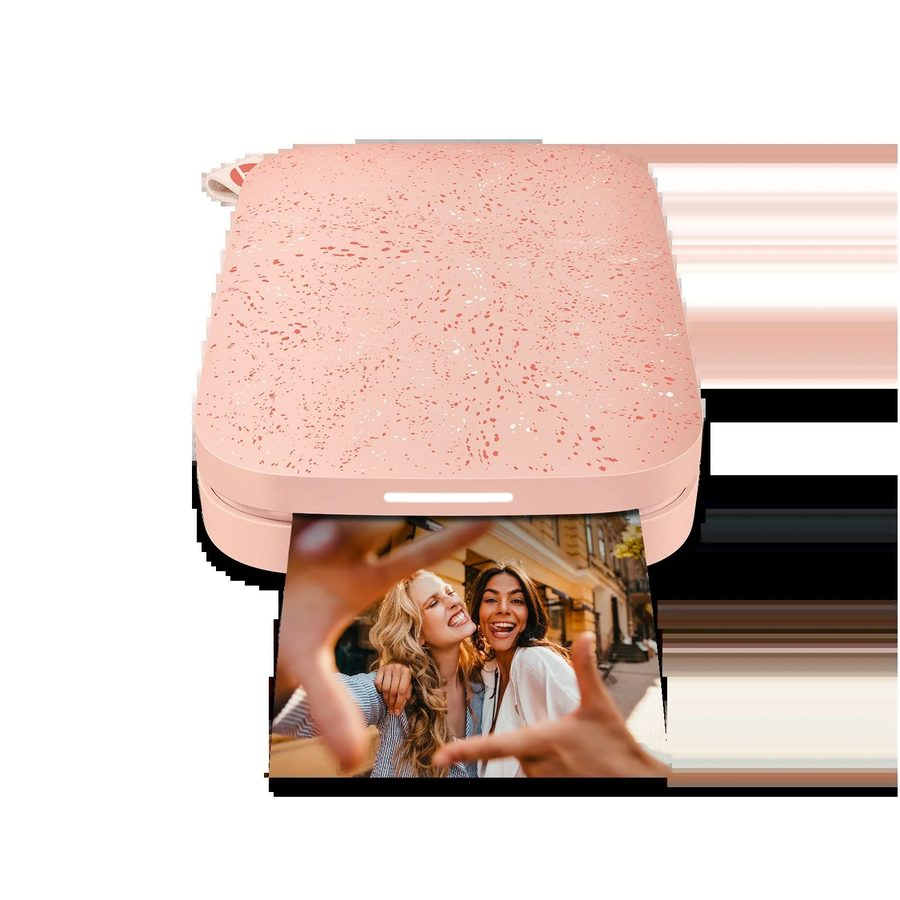
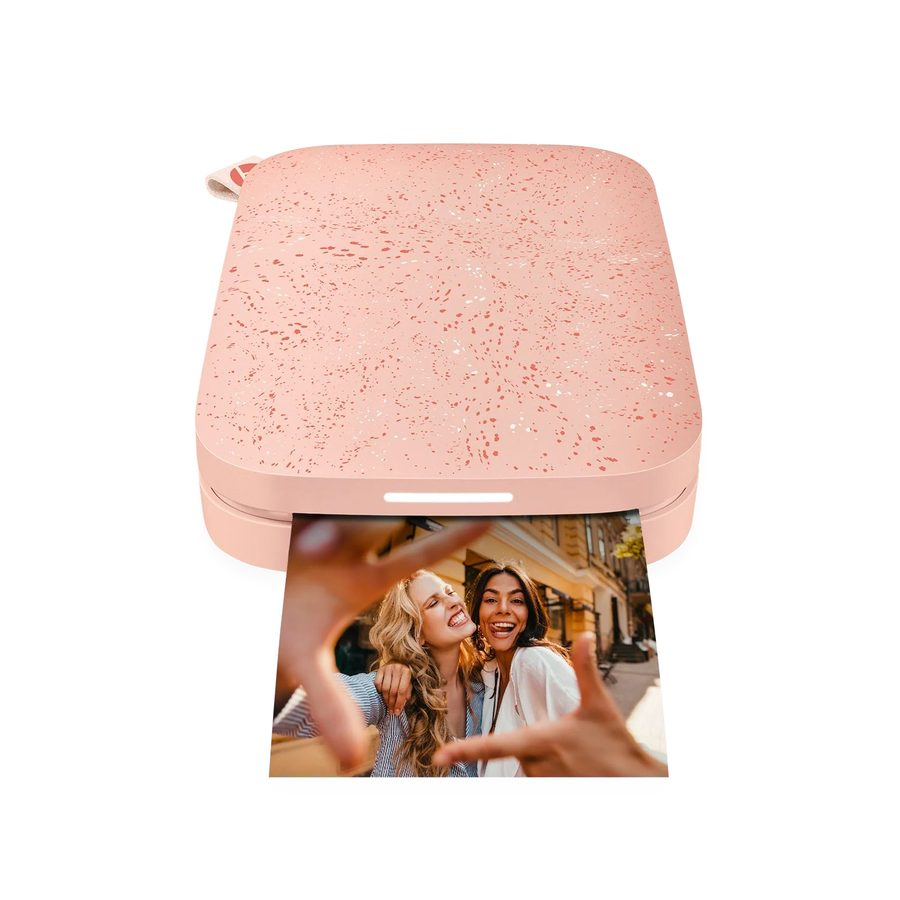
Slide order, prices as written, two photo fixes
- Order now matches the presentation: one-time ideas first (to be ranked
  by hand), then the five that moved out of "Одноразовые", then the
  "Многоразовые" in slide order.
- Prices carry Milana's own notation again through a "priceLabel" field —
  "~€20", "~€20?", "~бесценно". priceMin/priceMax stay numeric so the
  price sort still works. Lego Botanicals (€40) and Butter squishy (€15)
  keep the single figures she gave instead of their slide ranges.
- Gold frame added to the Mateus bowl and the Serax fish set.
- The Creeper and the printer are stored in the PDF with a separate soft
  mask, which pdfimages writes as its own file. Nothing was applying it,
  so the cut-out background came through black. Now composited.
- The Body Shop entry is two products on the slide; both are in the photo.

diff --git a/js/app.js b/js/app.js
@@ -62,6 +62,8 @@ function normalize(raw, index) {
     description: raw.description || "",
     priceMin: Number.isFinite(priceMin) ? priceMin : null,
     priceMax: Number.isFinite(priceMaxRaw) ? priceMaxRaw : null,
+    // Milana's own notation from the slides: "~€20", "€15–50", "~бесценно".
+    priceLabel: typeof raw.priceLabel === "string" ? raw.priceLabel : "",
     currency: raw.currency || "EUR",
     category: raw.category || "",
     link: raw.link || "",
@@ -144,6 +146,7 @@ function makeChip(label) {
 }
 
 function formatPrice(item) {
+  if (item.priceLabel) return item.priceLabel;
   const symbol = item.currency === "EUR" ? "€" : item.currency + " ";
   const { priceMin: min, priceMax: max } = item;
   if (min == null) return "";

diff --git a/.github/scripts/validate_items.py b/.github/scripts/validate_items.py
@@ -71,6 +71,12 @@ for idx, item in enumerate(items, start=1):
         elif isinstance(price_min, (int, float)) and price_max < price_min:
             fail(f"{where}: priceMax ({price_max}) is lower than priceMin ({price_min}).")
 
+    # "priceLabel" is what the card shows — "~€20", "€15–50", "~бесценно".
+    # Leave it out and the card falls back to priceMin/priceMax.
+    price_label = item.get("priceLabel")
+    if price_label is not None and not isinstance(price_label, str):
+        fail(f'{where}: "priceLabel" must be text in quotes.')
+
     # "starred" is the star from the wishlist slides — it draws the gold frame.
     starred = item.get("starred", False)
     if not isinstance(starred, bool):
